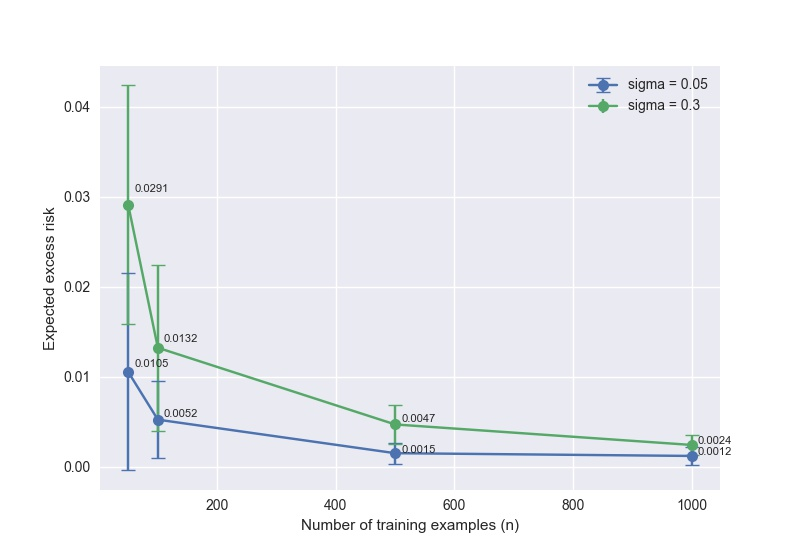
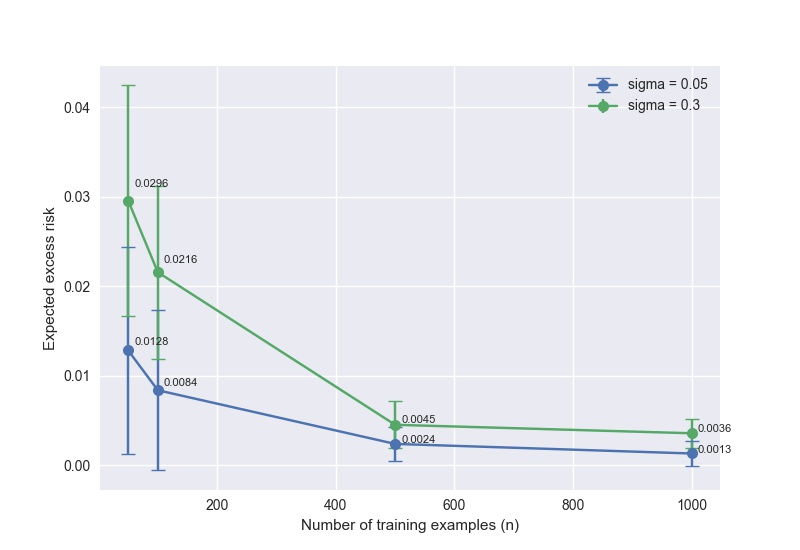
Fixing rho value and generating results/plots again

diff --git a/SGD.py b/SGD.py
@@ -142,11 +142,11 @@ def sgd(num_training_samples, scenario, sigma):
     # For multidimension ball, M is the value of the diameter
     if scenario==1:
         M = np.sqrt(np.power(2,2)*(inputDimension+1))
+        rho = M/2
     else:
         M = 2
+        rho = np.sqrt(2)
 
-    # rho = max(||x||) which in both scenarios is half of M.
-    rho = M/2
     learning_rate = M/(rho*np.sqrt(num_training_samples))
 
     # Initialize weight vector to zero.
